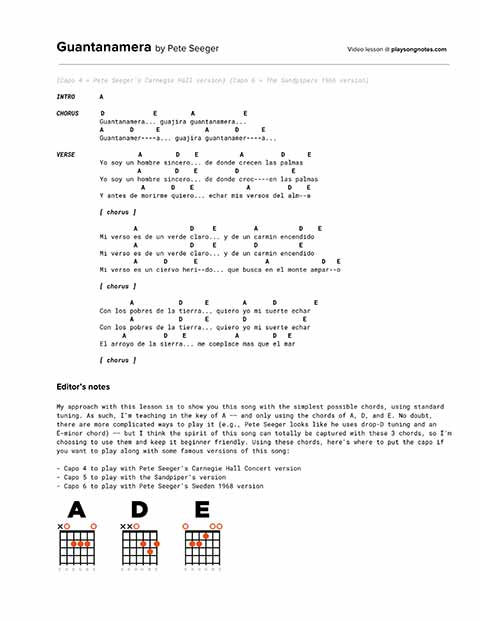
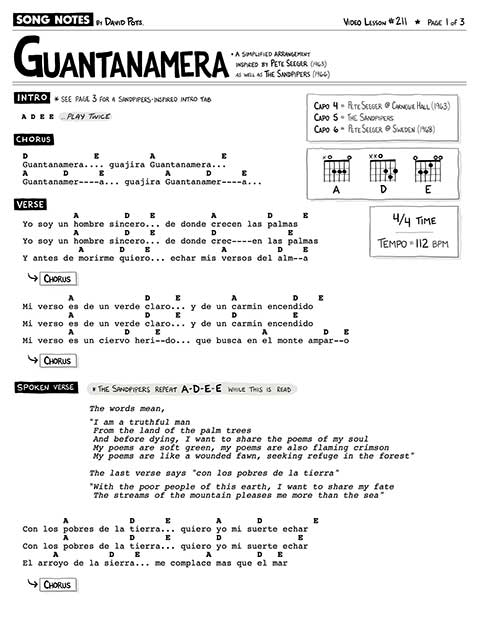
Adds 211 guantanamera

Changed region(s): [[0.0312, 0.0, 0.9688, 0.9485]]

diff --git a/backlog.md b/backlog.md
@@ -18,6 +18,7 @@ permalink: /backlog/
 
 Here's the songs I've most recently re-listed for purchase at Musicnotes.com. Each arrangement is officially licensed & legal, and also uses my latest sheet music formatting.
 
+- Apr 21 - [Guantanamera](https://playsongnotes.com/lessons/211/)
 - Apr 20 - [Sedona](https://playsongnotes.com/lessons/313/)
 - Apr 19 - [Like a Rolling Stone](https://playsongnotes.com/lessons/33/)
 - Apr 19 - [Feeling Whitney](https://playsongnotes.com/lessons/91/)
@@ -64,7 +65,6 @@ Here's the songs I've most recently re-listed for purchase at Musicnotes.com. Ea
     California Dreaming         XXXXXXXXX
     Creep                       XXXXXXXXXX
     Game of Thrones (theme)     XXXXXXXXXX
-    Guantanamara                XXXXXXXX
     Let Him Roll                XXXXXXXX
     Maybe It's Time •           XXXXXXX
     My Fav. Picture of You      XXXXXXXX

diff --git a/_lessons/211 [Pete Seeger] Guantanamera.md b/_lessons/211 [Pete Seeger] Guantanamera.md
@@ -11,8 +11,9 @@ slug: "211"
 tags: [Full Song Lesson, Key of A, Folk, 1960s]
 redirect_from:
   - /songs/pete-seeger-guantanamera/
-pdf_version: copyright
-pdf_numpages: 2
+pdf_version: musicnotes
+pdf_numpages: 3
+musicnotes_url: https://www.musicnotes.com/l/x2vMm
 patreon_lesson_available: true
 patreon_lesson_url: https://www.patreon.com/posts/24356142
 ---
